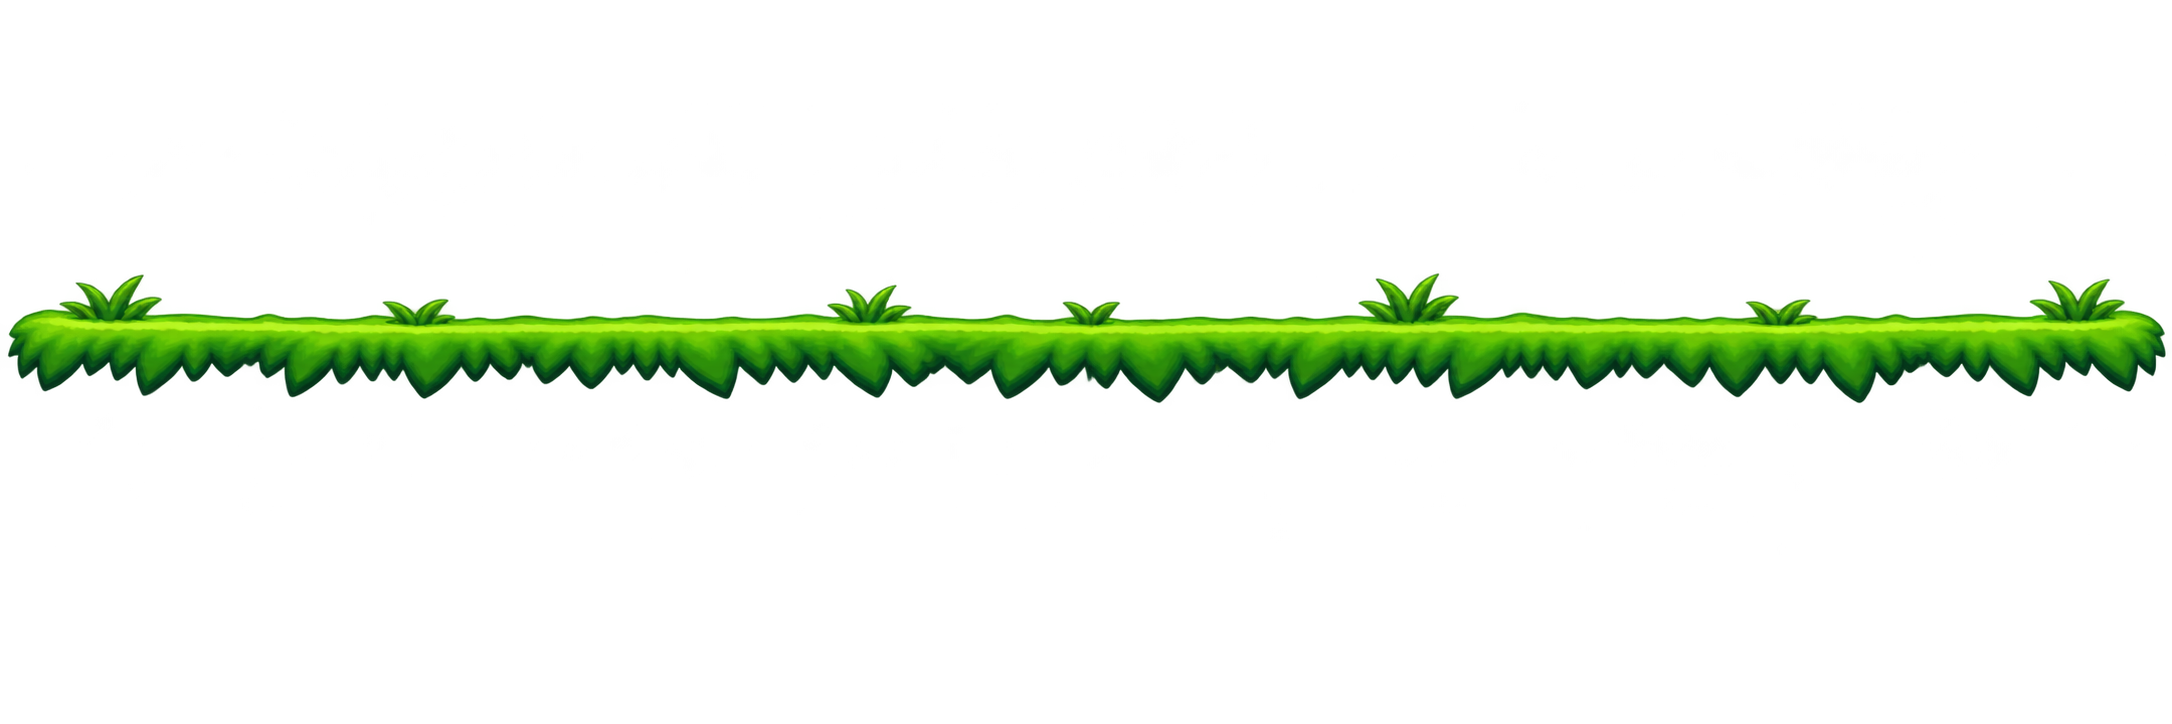
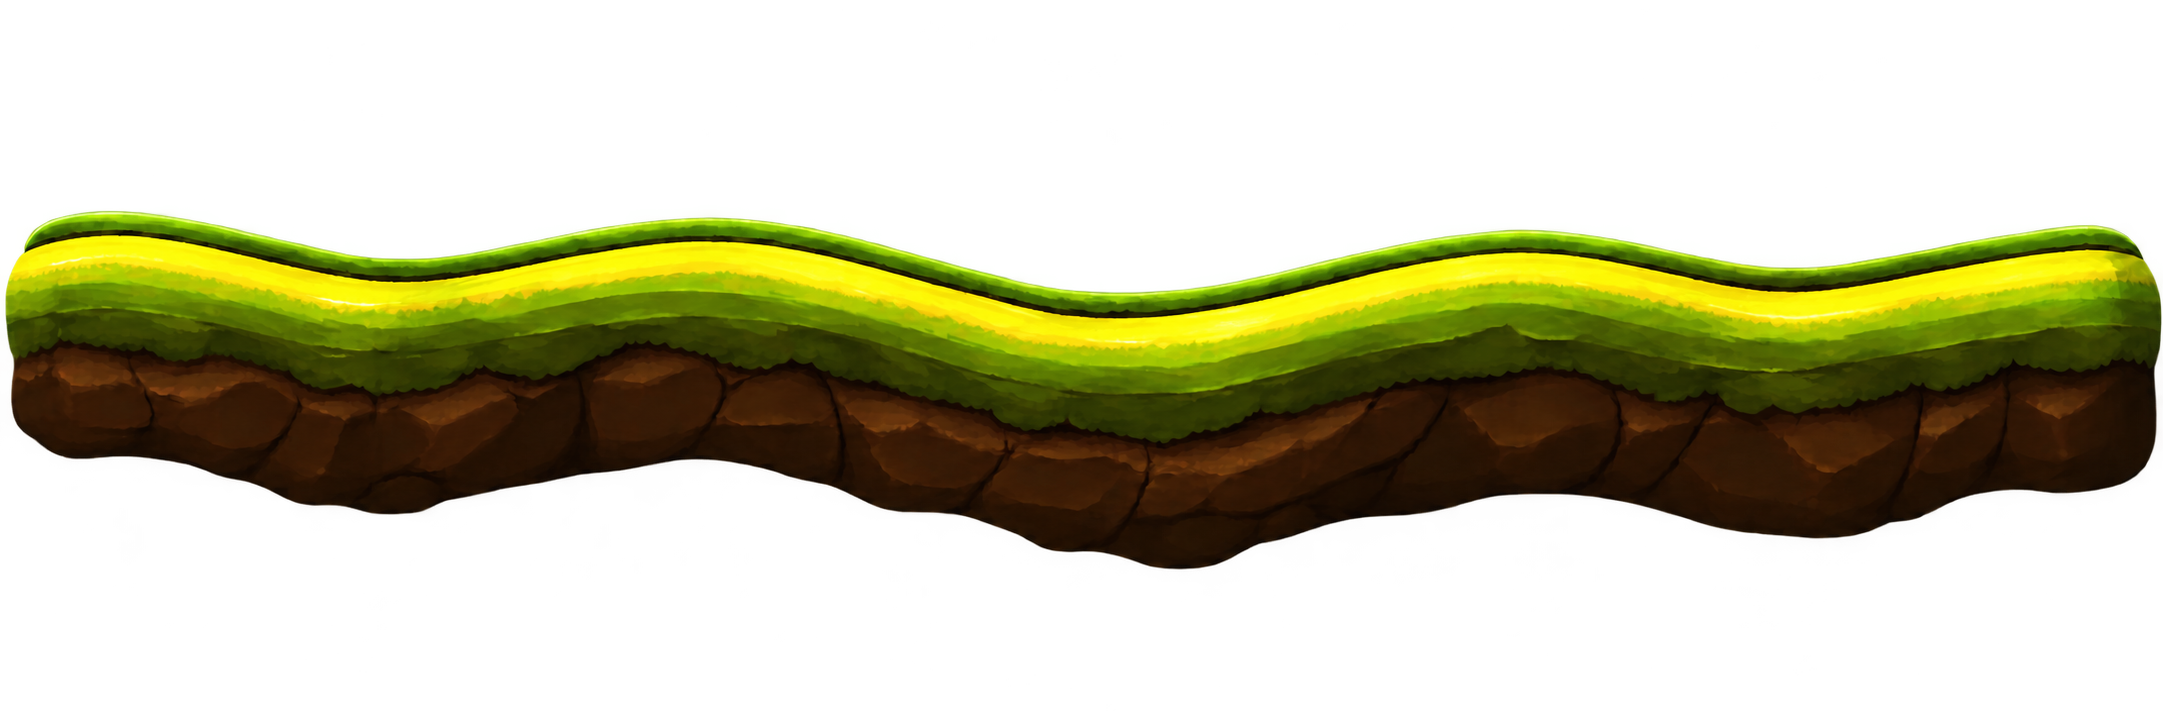
xd

diff --git a/Assets/AnimeHillRacing/Scripts/Editor/PrototypeSceneBuilder.cs b/Assets/AnimeHillRacing/Scripts/Editor/PrototypeSceneBuilder.cs
@@ -5783,11 +5783,13 @@ namespace AnimeHillRacing.Editor
             assets.countryside.useSeparateTerrainMaterials = true;
             assets.countryside.fitAuthoredTerrainTexture = true;
             assets.countryside.terrainTextureRepeatWidth = assets.countrysideGround != null
-                ? assets.countrysideGround.rect.width / assets.countrysideGround.pixelsPerUnit : 21.72f;
+                ? assets.countrysideGround.rect.width / assets.countrysideGround.pixelsPerUnit : 21.63f;
             assets.countryside.terrainWallUvRange = new Vector2(0f, 1f);
-            assets.countryside.terrainSurfaceUvRange = new Vector2(.441989f, .622928f);
-            assets.countryside.terrainSurfaceContactV = .559392f;
-            assets.countryside.terrainFillStartV = .559392f;
+            // Ground.png uses its complete painted platform band. The yellow layer is the authored
+            // wheel contact row; the matching brown section continues into Terrain.png behind it.
+            assets.countryside.terrainSurfaceUvRange = new Vector2(.219f, .708f);
+            assets.countryside.terrainSurfaceContactV = .63f;
+            assets.countryside.terrainFillStartV = .63f;
             assets.countryside.groundPhysicsMaterial = assets.groundPhysics;
             assets.countryside.terrainEdgeWidth = 0.18f;
             assets.countryside.terrainVisualDepth = 20f;
